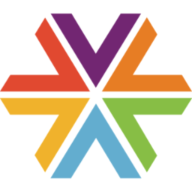
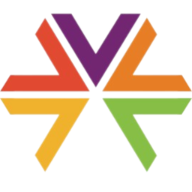
new faivcons; updates gray colorway; changed font color in header

diff --git a/src/components/AppWrapper/index.tsx b/src/components/AppWrapper/index.tsx
@@ -8,7 +8,7 @@ type AppWrapperProps = {
 export default function AppWrapper({ children }: AppWrapperProps) {
   return (
     <div className="h-screen w-screen overflow-auto bg-neutral-100">
-      <div className="m text-opacity-900 mb-4 w-full bg-primary-200">
+      <div className="m text-opacity-900 mb-4 w-full bg-primary-200 text-gray-600 ">
         <div className="container mx-auto max-w-screen-md px-4">
           <header className="flex w-full items-center justify-between py-6">
             <Link to="/" className="flex items-center">

diff --git a/src/components/ExportJobDetailView/index.tsx b/src/components/ExportJobDetailView/index.tsx
@@ -21,7 +21,7 @@ export default function ExportJobDetailView({
       <Link to="/admin/jobs" className="mb-2 block">
         ◀ Back to Export List
       </Link>
-      <section className="max-h-[90vh] rounded border bg-white p-4">
+      <section className="h-[calc(100vh-112px)] rounded border bg-white p-4">
         <header className="mb-4 flex items-center">
           <div className="flex w-24 flex-col items-center text-center">
             <ExportJobStatusIndicator status={job.status} />

diff --git a/tailwind.config.js b/tailwind.config.js
@@ -46,7 +46,7 @@ module.exports = {
           800: "#2e2918",
           900: "#17140c",
         },
-        // gray: colors.stone,
+        gray: colors.stone,
         // // WESTAR X SAN JUAN
         // neutral: {
         //   50: "#fcfcfb",
